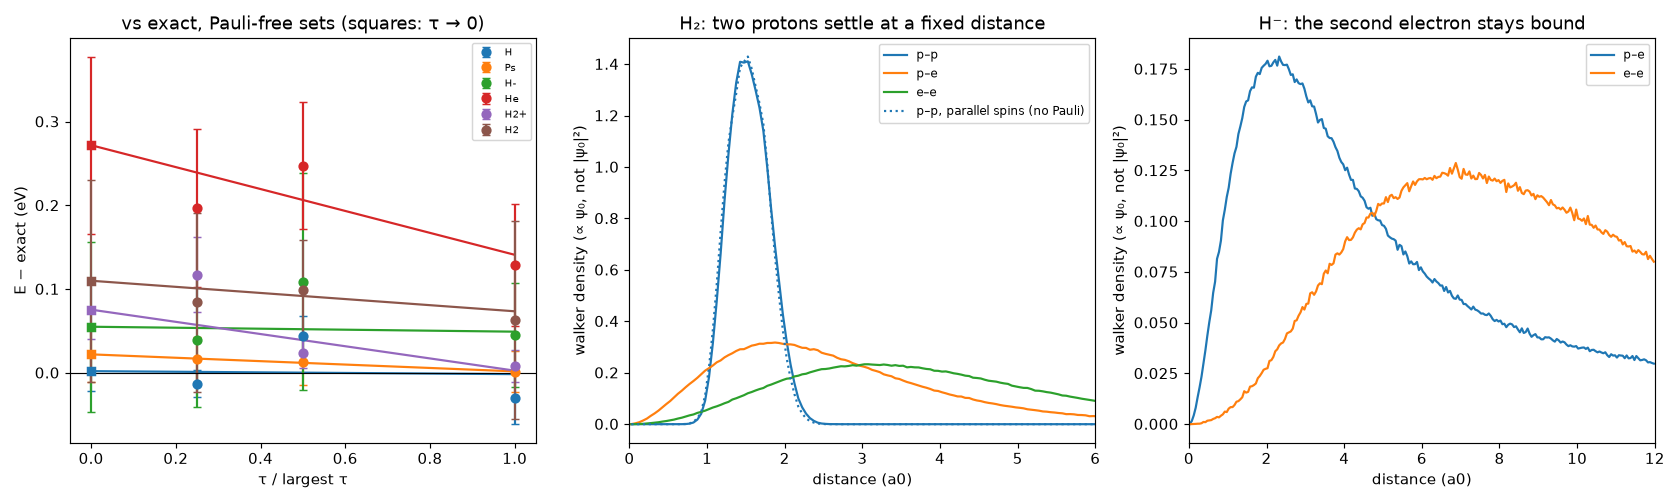
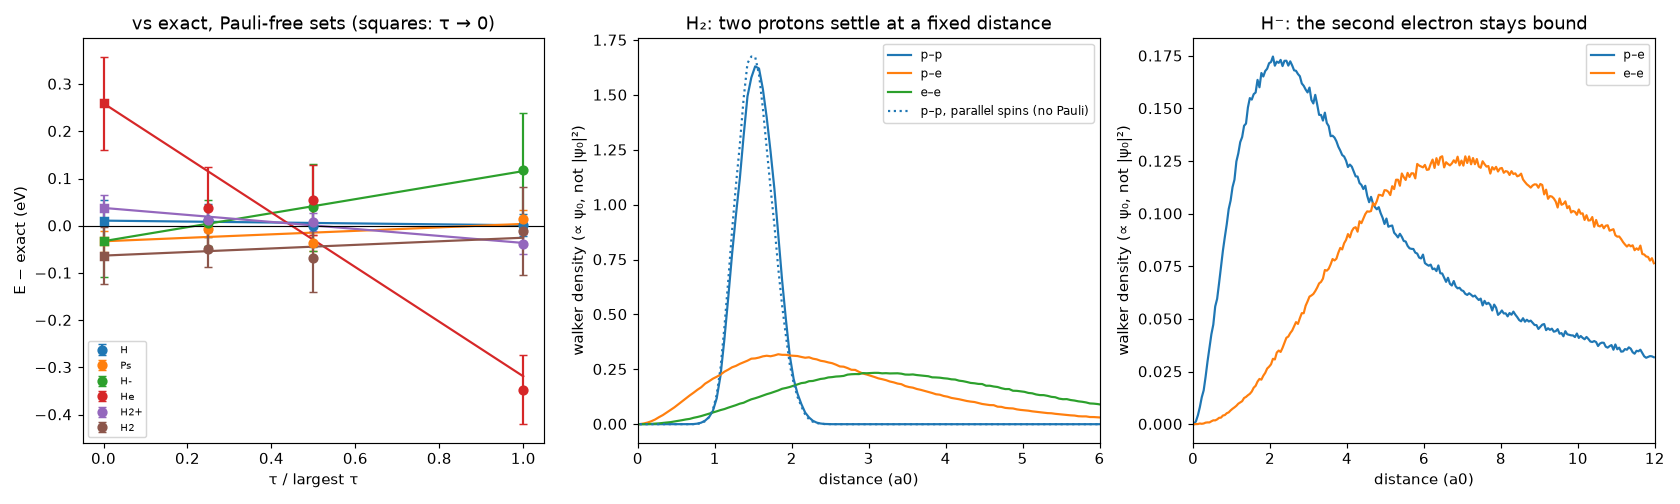
Phase 4 findings: rerun with the population-control correction
Claude-Session: https://claude.ai/code/session_01WXyztVK4JFomJr8VpnCic7

diff --git a/results/diffusion/FINDINGS.md b/results/diffusion/FINDINGS.md
@@ -1,8 +1,10 @@
 # diffusion: findings
 
-Script: `run_diffusion.py` · branch `phase4-diffusion` (from `0df78d6`) · 88 runs, 19 min on 4 cores.
-Data: `chunks.csv` (every run), `summary.json` (extrapolations, pair-distance histograms).
-Figure: `python plot_diffusion.py`. Units: atomic units, real masses.
+Script: `run_diffusion.py` · rerun on branch `phase5-antisymmetry` with the
+population-control correction (first run: PR #7, `0df78d6`) · 88 runs, 16 min
+on 4 cores. Data: `chunks.csv` (every run), `summary.json` (extrapolations,
+pair-distance histograms). Figure: `python plot_diffusion.py`. Units: atomic
+units, real masses.
 
 ![diffusion](diffusion.png)
 
@@ -43,25 +45,25 @@ Hamiltonian:
 
 | system | diffusion (Hartree) | exact | difference |
 |---|---|---|---|
-| H | −0.49965 ± 0.00086 | −0.49973 | 0.1σ |
-| Ps (e⁺e⁻) | −0.2492 ± 0.0012 | −0.25 | 0.7σ |
-| H⁻ | −0.5254 ± 0.0037 | −0.52745 | 0.5σ |
-| He | −2.8933 ± 0.0039 | −2.90330 | 2.6σ (0.34%) |
-| H₂⁺ | −0.5944 ± 0.0013 | −0.59714 | 2.2σ (0.47%) |
-| H₂ | −1.1600 ± 0.0044 | −1.16403 | 0.9σ |
+| H | −0.4993 ± 0.0016 | −0.49973 | 0.2σ |
+| Ps (e⁺e⁻) | −0.2512 ± 0.0008 | −0.25 | 1.5σ |
+| H⁻ | −0.5287 ± 0.0028 | −0.52745 | 0.4σ |
+| He | −2.8938 ± 0.0036 | −2.90330 | 2.6σ (see time step below) |
+| H₂⁺ | −0.5958 ± 0.0010 | −0.59714 | 1.4σ |
+| H₂ | −1.1664 ± 0.0022 | −1.16403 | 1.0σ |
 
 Derived quantities compared with measurement, and with Phase 3:
 
 | quantity (eV) | Phase 3 wave packets | **Phase 4 diffusion** | measured |
 |---|---|---|---|
-| H ionization | 11.03 | **13.596 ± 0.023** | 13.598 |
-| He binding (both electrons) | 61.5 | **78.73 ± 0.11** | 79.005 |
-| Ps binding | not run | **6.78 ± 0.03** | 6.80 |
-| H⁻ electron affinity | unbound | **0.70 ± 0.10** | 0.754 |
-| H₂⁺ bond, D₀ | not run | **2.58 ± 0.04** | 2.651 |
-| H₂ bond, D₀ | (Dₑ 2.61) | **4.37 ± 0.13** | 4.478 |
-| H₂ with parallel spins | unbound ✓ | **bound 4.51 ± 0.12** ✗ | unbound |
-| Li (3 electrons) | ionization 5.31 ✓ | **−8.57 Hartree** ✗ | −7.4775 |
+| H ionization | 11.03 | **13.59 ± 0.04** | 13.598 |
+| He binding (both electrons) | 61.5 | **78.74 ± 0.10** | 79.005 |
+| Ps binding | not run | **6.84 ± 0.02** | 6.80 |
+| H⁻ electron affinity | unbound | **0.80 ± 0.09** | 0.754 |
+| H₂⁺ bond, D₀ | not run | **2.62 ± 0.05** | 2.651 |
+| H₂ bond, D₀ | (Dₑ 2.61) | **4.56 ± 0.11** | 4.478 |
+| H₂ with parallel spins | unbound ✓ | **bound 4.65 ± 0.13** ✗ | unbound |
+| Li (3 electrons) | ionization 5.31 ✓ | **−8.65 Hartree** ✗ | −7.4775 |
 
 D₀ is the bond energy measured from the lowest vibrational level. The
 protons here are quantum particles too, so their zero-point motion is
@@ -69,61 +71,66 @@ included automatically, and D₀ can be compared with experiment directly.
 
 ### What emerged
 
-- **Exact atoms from two rules.** Hydrogen comes out at 13.596 ± 0.023 eV
+- **Exact atoms from two rules.** Hydrogen comes out at 13.59 ± 0.04 eV
   and helium at 78.7 eV (measured 79.0), with no shape assumed and nothing
   fitted. The Phase 3 shape limit (19–23% underbinding) is gone.
-- **H⁻ binds.** A second electron stays attached to hydrogen by 0.70 ±
-  0.10 eV (measured 0.754). This is correlation: the two electrons avoid
+- **H⁻ binds.** A second electron stays attached to hydrogen by 0.80 ±
+  0.09 eV (measured 0.754). This is correlation: the two electrons avoid
   each other moment to moment. The e–e distance peaks near 7 a0, while
   each electron stays near the proton (right panel). Independent clouds
   (Phase 3) and Hartree–Fock theory cannot produce this.
-- **Chemical bonds with zero-point motion.** H₂ binds by 4.37 ± 0.13 eV
-  (measured 4.478) and H₂⁺ by 2.58 ± 0.04 eV (2.651). The two protons, which
+- **Chemical bonds with zero-point motion.** H₂ binds by 4.56 ± 0.11 eV
+  (measured 4.478) and H₂⁺ by 2.62 ± 0.05 eV (2.651). The two protons, which
   started at random points, settle at a fixed separation: the walker
   distribution peaks at 1.53 a0 (middle panel; real equilibrium 1.40 a0).
   These walkers are distributed as ψ₀, not |ψ₀|², which shifts and widens
   the peak, so 1.53 a0 is not a measured bond length.
 - **Positronium** (an electron and a positron, equal masses) binds at
-  6.78 eV (6.80), with the same rules and no special case.
+  6.84 eV (6.80), with the same rules and no special case.
 
 ### What the diffusion rules get wrong: Pauli
 
-- **H₂ with parallel spins binds**, with 4.51 eV and the same proton
+- **H₂ with parallel spins binds**, with 4.65 eV and the same proton
   distance as ordinary H₂ (dotted line, middle panel). In reality it falls
   apart. The wave-packet rules got this right.
-- **Lithium collapses to one shell:** −8.57 Hartree against the real
-  −7.4775, so it is overbound by about 30 eV. With no antisymmetry, the third
+- **Lithium collapses to one shell:** −8.65 Hartree against the real
+  −7.4775, so it is overbound by about 32 eV. With no antisymmetry, the third
   electron joins the other two in the innermost region.
 
 So the diffusion rules are complete for everything with at most one
 electron per spin (H, H⁻, He, H₂⁺, H₂, Ps). They are missing antisymmetry,
 which Phase 3 had. The missing rule is known: identical fermions change the
-sign of the wave when exchanged. In a walker picture, that means walkers
-carry a sign, and a walker and its exchanged copy cancel.
+sign of the wave when exchanged (Phase 5, `results/antisymmetry/`).
 
 ## Robustness notes (principle 4)
 
-- **Time step.** τ ∈ {0.02, 0.01, 0.005}/c², where c is the largest |qᵢqⱼ|
-  (1 for hydrogen-like sets, 2 for He, 3 for Li). The τ dependence is weak
-  compared with the error bars (figure, left). The linear fits are
-  consistent (χ² ≤ 2.5 for 1 degree of freedom) except hydrogen
-  (χ² = 5.3), where the extrapolated value still agrees with exact.
-- **Errors.** Errors from blocks within one run are 2–5× too small: the
-  first and second halves of a run differ by 2–5 block errors, even for H
-  and Ps. The quoted errors therefore use the spread between 4 independent
-  runs (different seeds) wherever it is larger. With only 4 runs, the error
-  bars are themselves uncertain by roughly ±40%.
-- **Possible small bias.** 5 of the 6 exact-comparable energies lie above
-  exact, with He (0.34%, 2.6σ) and H₂⁺ (0.47%, 2.2σ) the largest. That
-  pattern suggests a small systematic bias toward underbinding. Candidates
-  are population control with 2000 walkers, and slow equilibration of the
-  heavy protons in H₂⁺. It is not resolved here.
+- **Population-control bias (found in Phase 5, corrected here).** Holding
+  the walker count steady with E_ref biases the energy by an amount that
+  shrinks as 1/(walker count). Near a nucleus, unguided weights swing so
+  much that the effect is large: Li⁺ gave −7.208, −7.25 and −7.288 Hartree
+  with 500, 2000 and 8000 walkers (exact −7.279). The first run of this
+  experiment carried that bias: 5 of 6 energies sat slightly above exact.
+  The estimator now undoes the E_ref factors over a trailing 3 a.u. window
+  (Umrigar, Nightingale & Runge 1993). After correction the six energies
+  scatter on both sides of exact (−1.5σ to +2.6σ).
+- **Time step.** τ ∈ {0.02, 0.01, 0.005}/c², where c is the largest |qᵢqⱼ|.
+  For helium, the largest τ is off (−2.9161) while the two smaller ones
+  agree with exact (−2.9013 ± 0.0027, −2.9019 ± 0.0031; exact −2.9033). A
+  straight line through all three therefore overshoots to −2.8938. The τ
+  dependence is not linear at the largest step; the smallest steps are the
+  better estimate. All other systems fit a line well (χ² ≤ 3 for one degree
+  of freedom).
+- **Errors.** Errors from blocks within one run are too small (the halves of
+  one run differ by 2–5 block errors). The quoted errors use the spread
+  between 4 independent runs (different seeds) wherever it is larger. With
+  only 4 runs, the error bars are themselves uncertain by roughly ±40%.
 - **Branching cap.** At most 4 copies per step. The cap was reached in fewer
   than 2 × 10⁻⁶ of branching events.
-- **Heavy particles equilibrate slowly.** A proton's random walk covers 43× less
-  distance than an electron's in the same time, so H₂ and H₂⁺ runs equilibrate for 60–100 a.u. The
-  proton distributions from the full runs (4 seeds pooled) are smooth;
-  short test runs with 10 a.u. of equilibration were visibly lumpy.
+- **Heavy particles equilibrate slowly.** A proton's random walk covers 43×
+  less distance than an electron's in the same time, so H₂ and H₂⁺ runs
+  equilibrate for 60–100 a.u. The proton distributions from the full runs
+  (4 seeds pooled) are smooth; short test runs with 10 a.u. of
+  equilibration were visibly lumpy.
 
 ## What this means for the project
 
@@ -131,13 +138,9 @@ This is the first rule set in the project that contains no approximation
 of the physics it claims to model: two rules, three kinds of constants, and
 for Pauli-free particle sets the answer is the exact non-relativistic one.
 Atoms, the negative ion, a one-electron bond, the covalent bond and
-positronium all emerge within 0.1–0.5% of exact. Every earlier "hole" in
-that class is closed.
+positronium all emerge, each within 2.6 standard errors of exact. Every
+earlier "hole" in that class is closed.
 
 What remains is the Pauli principle. Phase 3 had it and lacked
 correlation; Phase 4 has correlation and lacks Pauli. The next rule is
-antisymmetry expressed in the walk itself (signed walkers that cancel under
-exchange of identical fermions). That is where the fermion "sign problem"
-sits, so it is the hardest step so far. It needs no new constant, and
-without it no atom beyond helium, and no chemistry beyond H₂, can come out
-right.
+antisymmetry expressed in the walk itself.
